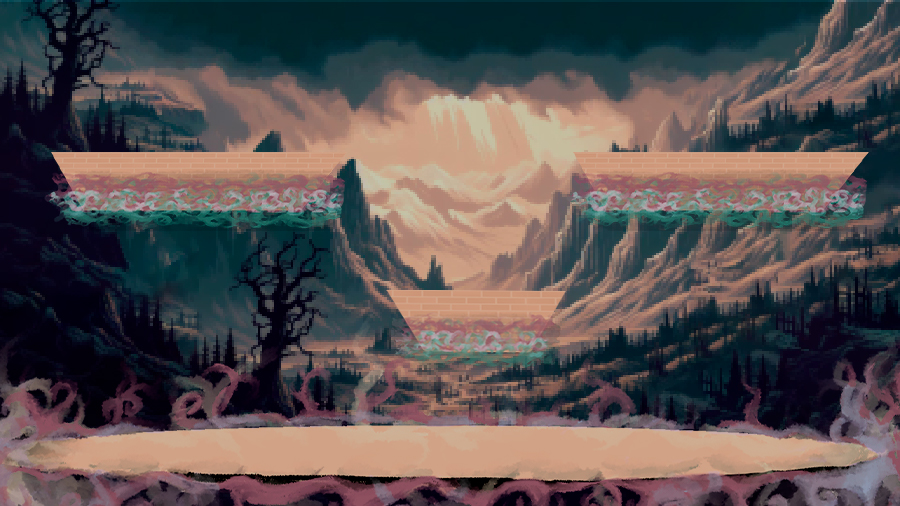
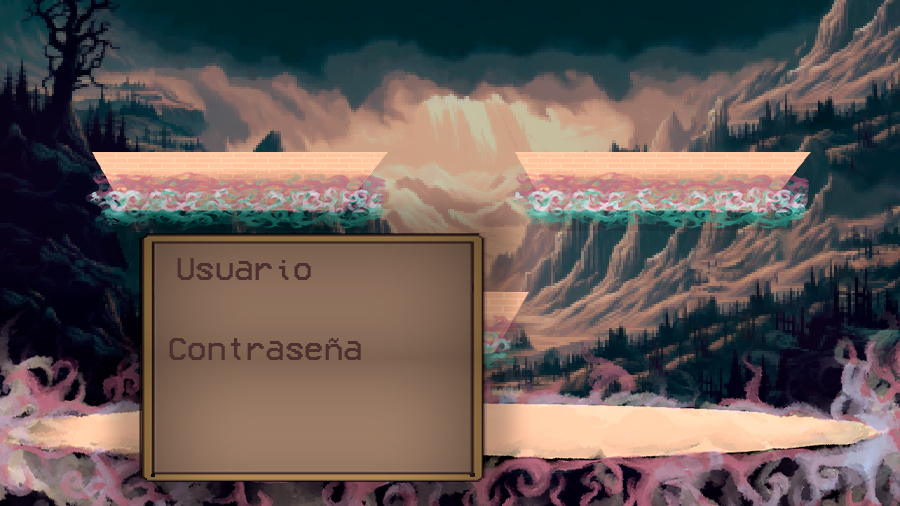
Ajustes lado cliente con PUT y DELETE
Añadido la escena para actualizar y borrar el usuario. Permite actualizar la contraseña o borrar el usuario

diff --git a/DethSpell/escenas/ajustes.js b/DethSpell/escenas/ajustes.js
@@ -18,16 +18,152 @@ var Ajustes = new Phaser.Class({
         this.load.spritesheet('audio_on', 'interfaces/audioon.png', { frameWidth: 180, frameHeight: 169 });
         this.load.spritesheet('audio_off', 'interfaces/audiooff.png',  { frameWidth: 180, frameHeight: 169 });
         this.load.spritesheet('flecha', 'interfaces/flecha.png',  { frameWidth: 164, frameHeight: 109 });
+        this.load.spritesheet('actualizar', 'interfaces/boton_actualizar.png',  { frameWidth: 260, frameHeight: 105 });
+        this.load.spritesheet('borrar', 'interfaces/boton_borrar.png',  { frameWidth: 260, frameHeight: 105 });
+        this.load.image('log', 'interfaces/input_blanco.png');
 
     },
     
     create() {
 
-       this.add.image(450,253,'interfazAjustes');
+      this.fondo = this.add.image(450,253,'interfazAjustes');
        pulsar = this.sound.add('pulsado');
        boton = this.sound.add('boton');
 
-       this.audioon = this.add.sprite(300, 253, 'audio_on').setInteractive();
+       escribirpassword = false;
+      valor = '';
+      nombre = game.usuario.id;
+
+      const textEntry = this.add.text(200, 295, game.usuario.id, { font: '30px Courier', fill: '#5c330a' });
+
+
+      this.password = this.add.image(310, 390, 'log').setScale(0.3).setInteractive();
+
+      const passEntry = this.add.text(200, 375, '', { font: '30px Courier', fill: '#5c330a' });
+
+      this.actualizar = this.add.sprite(650, 300, 'actualizar').setInteractive();
+
+      this.borrar = this.add.sprite(650, 400, 'borrar').setInteractive();
+
+      const informacionActualizar = this.add.text(210, 430, '', { font: '20px Courier', fill: '#5c330a' , weight: 23});
+
+      const error = this.add.text(210, 430, '', { font: '20px Courier', fill: '#b81414' , weight: 23});
+
+
+      var ip = location.host;
+
+      function actualizarUsuario(usuario) {
+        $.ajax({
+            method: 'PUT',
+            url: 'http://'+ ip + '/usuario/' + usuario.id,
+            data: JSON.stringify(usuario),
+            processData: false,
+            headers: {
+                "Content-Type": "application/json"
+            }
+        }).done(function (usuario) {
+            game.usuario = usuario; 
+            console.log("Clave actualizada: " + JSON.stringify(usuario))
+            informacionActualizar.text = 'Clave actualizada';
+          }).fail(function(){
+            
+            });
+    }
+
+    function deleteUsuario(usuario) {
+      $.ajax({
+          method: 'DELETE',
+          url: 'http://'+ ip + '/usuario/' + usuario.id + "/" + usuario.password,
+          
+      }).done(function (usuario) {
+          console.log("Usuario Borrado" + usuario.id)
+          informacionActualizar.text = "Usuario borrado"; 
+          game.scene.stop('Ajustes');
+          game.scene.start('LogIn');
+          game.musicaGlobal.musica.stop();
+          game.musicaGlobal.musica = null;
+          informacionActualizar.text = "";  
+        }).fail(function(){
+          console.log("Usuario o clave incorrecta o no se ha registrado");
+          });
+  }
+
+  this.password.on('pointerdown', () =>{
+    escribirpassword = true;
+    informacionActualizar.text = ""; 
+    error.text = ""; 
+
+  })
+
+  this.fondo.on('pointerdown', ()=>{
+    escribirpassword = false;
+    informacionActualizar.text = ""; 
+    error.text = ""; 
+  })
+
+    this.actualizar.on('pointerover', () => {
+      boton.play();
+      this.actualizar.setFrame(1);
+    });
+
+    this.actualizar.on('pointerout', () => {
+      boton.play();
+      this.actualizar.setFrame(0);
+    });
+
+    this.actualizar.on('pointerdown', () => {
+      error.text = ""; 
+      informacionActualizar.text = ""; 
+      escribirpassword = false
+      pulsar.play();
+
+      var n = game.usuario.id;
+      var p = valor;
+
+      if(n.length>0 && p.length>0){
+      var usuario = {
+        id: n,
+        password: p
+
+      }
+      actualizarUsuario(usuario);
+    } else{
+      error.text= "Rellena la clave";
+    }
+
+    });
+
+    this.borrar.on('pointerover', () => {
+      boton.play();
+      this.borrar.setFrame(1);
+    });
+
+    this.borrar.on('pointerout', () => {
+      boton.play();
+      this.borrar.setFrame(0);
+    });
+
+    this.borrar.on('pointerdown', () => {
+      error.text = ""; 
+      informacionActualizar.text = ""; 
+      escribirpassword = false
+      pulsar.play();
+
+      var n = game.usuario.id;
+      var p = game.usuario.password; 
+
+
+      var usuario = {
+        id: n,
+        password:p,
+
+
+      }
+      deleteUsuario(usuario);
+    
+    });
+
+       this.audioon = this.add.sprite(300, 120, 'audio_on').setInteractive();
        
        this.audioon.on('pointerover', () => {
         boton.play();
@@ -37,13 +173,16 @@ var Ajustes = new Phaser.Class({
         this.audioon.setFrame(0);
       });
       this.audioon.on('pointerdown', () => {
+        error.text = ""; 
+        informacionActualizar.text = ""; 
+        escribirpassword = false
         pulsar.play();
         this.game.musicaGlobal.musica.setVolume(0.5);
         this.game.musicaGlobal.mute = false;
       });
 
 
-      this.audiooff = this.add.sprite(600, 253, 'audio_off').setInteractive();
+      this.audiooff = this.add.sprite(620, 120, 'audio_off').setInteractive();
 
       this.audiooff.on('pointerover', () => {
         boton.play();
@@ -53,6 +192,9 @@ var Ajustes = new Phaser.Class({
         this.audiooff.setFrame(0);
       });
       this.audiooff.on('pointerdown', () => {
+        error.text = ""; 
+        informacionActualizar.text = ""; 
+        escribirpassword = false
         pulsar.play();
         this.game.musicaGlobal.musica.setVolume(0);
         this.game.musicaGlobal.mute = true;
@@ -68,8 +210,29 @@ var Ajustes = new Phaser.Class({
         this.flecha.setFrame(0);
       });
       this.flecha.on('pointerdown', () => {
+        error.text = ""; 
+        informacionActualizar.text = ""; 
+        escribirpassword = false
         pulsar.play();
         this.scene.start('Menu');
+      });
+
+      this.input.keyboard.on('keydown', event =>
+      {
+
+          if(event.keyCode === 8 && passEntry.text.length > 0 && escribirpassword){
+              passEntry.text = passEntry.text.substr(0, passEntry.text.length - 1);
+              valor = valor.substr(0, valor.length - 1);
+          }
+
+          else if ((event.keyCode === 32 || (event.keyCode >= 48 && event.keyCode < 90)) && passEntry.text.length < 10 && escribirpassword)
+          {
+
+              passEntry.text += event.key;
+              valor += event.key;
+              console.log(valor);
+          }
+
       });
 
 

diff --git a/DethSpell/index.html b/DethSpell/index.html
@@ -35,10 +35,11 @@
                 debug: false
             }
         },
-        scene: [ LogIn, Menu, Game, Ajustes,AjustesP, Creditos, Controles, Victoria1, Victoria2, PreguntaSalir]
+        scene: [  LogIn, Menu, Game,Ajustes, AjustesP, Creditos, Controles, Victoria1, Victoria2, PreguntaSalir]
     };
     
     var game = new Phaser.Game(config);
+    game.usuario = null;
     game.musicaGlobal = {
         musica: null,
         mute: false
